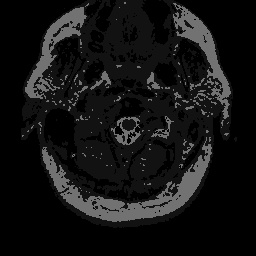
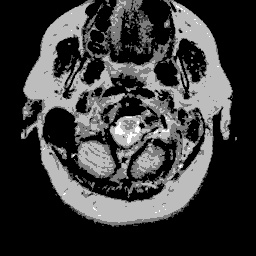
Simulated anealing

diff --git a/ga.py b/ga.py
@@ -86,6 +86,8 @@ class GA:
                 new_elite.append(self.ILS_2(ind))
             elif self.currentMutationOp == 2:
                 new_elite.append(self.Tabu(ind))
+            elif self.currentMutationOp == 3:
+                new_elite.append(self.SA(ind))
             # elif self.currentMutationOp == 3:
             #     elite[elite.index(ind)] = self.mutation(ind) 
         return new_elite  
@@ -166,6 +168,34 @@ class GA:
     
 
         return best_individual
+    
+    # def perturb_thresholds(self, individual):
+    #     new_thresholds = copy.deepcopy(individual.get_chromosome())
+    #     i = random.randint(0, self.K_THRESHOLD - 1)
+    #     flag = True
+    #     while flag:
+    #         temp = random.randint(0, 256)
+    #         if(temp not in new_thresholds):
+    #             new_thresholds[i] = temp
+    #             flag = False
+    #     individual.set_chromosome(new_thresholds)
+    #     return individual
+
+    def SA(self, individual, initial_temp = 1000, final_temp = 0.1, cooling_rate = 0.9, temp_iterations = 5):
+        T = initial_temp
+        best_individual = copy.deepcopy(individual)
+        self.calculate_fitness_wrapper(best_individual)
+
+        while T > final_temp:
+            for _ in range(temp_iterations):
+                new_individual = self.mutation(best_individual)
+                self.calculate_fitness_wrapper(new_individual)
+                if self.better_fitness(new_individual, best_individual) or random.random() < np.exp((new_individual.get_fitness() - best_individual.get_fitness()) / T):
+                    best_individual = new_individual
+            T *= cooling_rate
+
+        return best_individual
+    
 
     def local_search(self, solution, iterations, ILS):
         best_solution = copy.deepcopy(solution)
@@ -314,19 +344,18 @@ class GA:
         return fitness_value
     
     def apply_thresholds(self, thresholds):
-        thresholds = sorted(thresholds)
-        # Add boundaries to the thresholds list
+        thresholds = [0] + sorted(thresholds) + [255]
         output_image = np.zeros_like(self.image)
-        
-        # Compute intensity levels to assign for each thresholded region
+
         num_levels = len(thresholds) - 1
         intensity_step = 255 // (num_levels - 1)
-        
-        # Apply each threshold range as a mask
+
         for i in range(num_levels):
             mask = (self.image >= thresholds[i]) & (self.image < thresholds[i + 1])
-            output_image[mask] = thresholds[i]
-        
+            output_image[mask] = i * intensity_step
+
+        output_image[self.image == 255] = 255
+
         return output_image
 
         # Define a helper function for fitness calculation
@@ -385,7 +414,7 @@ class GA:
                 avg /= len(elite)
 
                 print("Average before: ", avg)
-                self.currentMutationOp = random.randint(0, 2)
+                self.currentMutationOp = random.randint(0, 3)
                 elite = self.VNS(elite)
                 same_best_counter = 0
 
